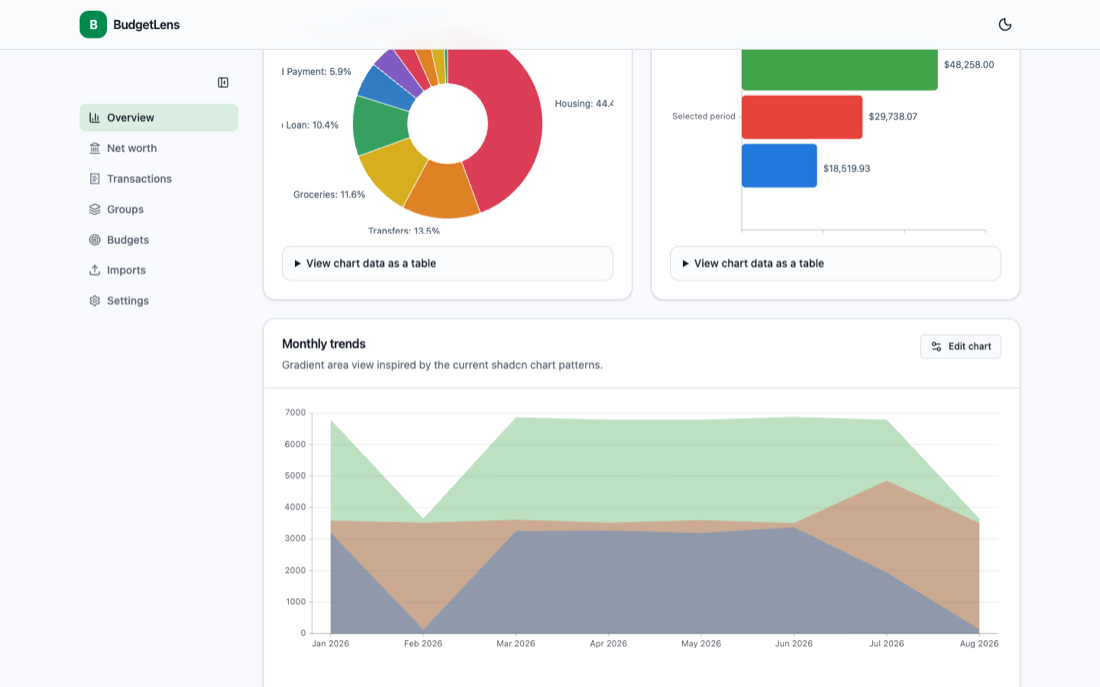
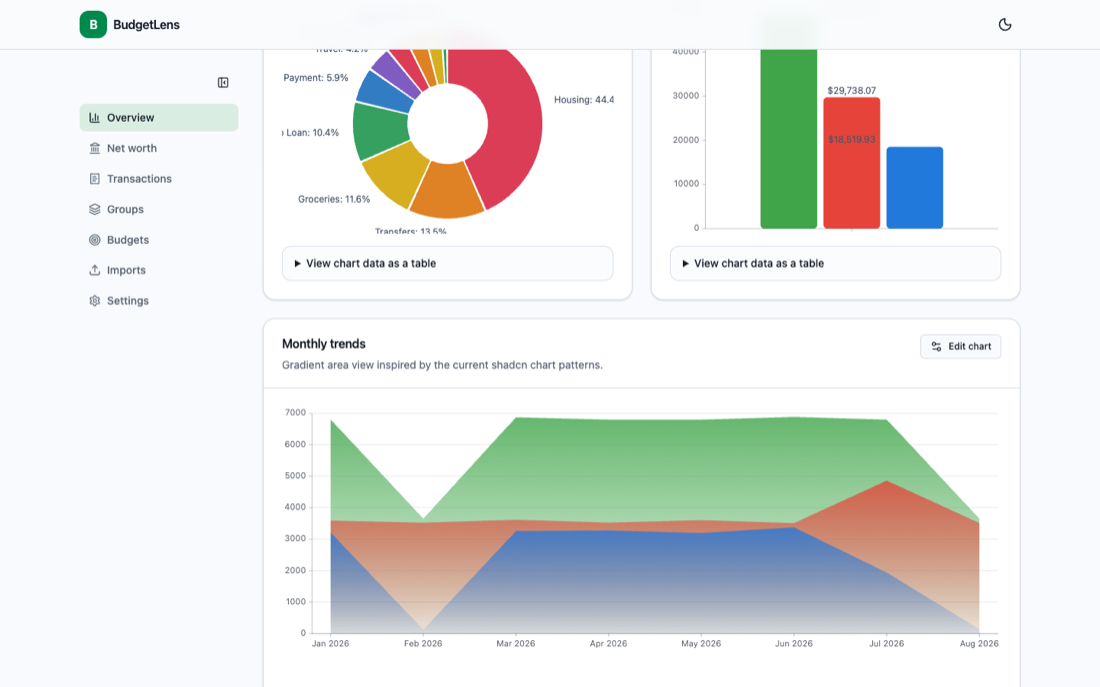
feat(charts): restore gradient area fills and donut slice gaps
Use TanStack's first-class gradient resources (per-series linear
gradients, strong at the curve fading to the baseline) so area charts
match the previous shadcn look instead of flat fills. Donut slices get
a small radius-independent gap like the old paddingAngle.

diff --git a/src/features/charts/render/chart-renderer.tsx b/src/features/charts/render/chart-renderer.tsx
@@ -431,9 +431,28 @@ function AreaChartBody({
   colors: readonly string[]
 }) {
   const prep = useCartesianPrep(rows, metrics, settings, colors)
+  const gradientPrefix = useId().replaceAll(":", "")
   const definition = useMemo(() => {
-    const fillOpacity =
-      settings.areaFill === "gradient" ? 0.35 : settings.areaFill === "solid" ? 0.18 : 0
+    const metricIndex = new Map(metrics.map((metric, index) => [metric.key, index]))
+    const gradient = settings.areaFill === "gradient"
+    // Per-series linear gradients restore the old renderer's AREA_FILLS look:
+    // strong at the curve fading toward the baseline.
+    const gradients = gradient
+      ? metrics.map((metric, index) => {
+          const color = metric.color ?? colorAt(prep.seriesColors, index)
+          return {
+            id: `${gradientPrefix}-area-${index}`,
+            x1: 0,
+            y1: 0,
+            x2: 0,
+            y2: 1,
+            stops: [
+              { offset: 0, color, opacity: 0.8 },
+              { offset: 1, color, opacity: 0.1 },
+            ],
+          }
+        })
+      : []
     return defineChart({
       marks: [
         areaY(prep.longRows, {
@@ -445,7 +464,16 @@ function AreaChartBody({
           z: "metricKey",
           color: "metricKey",
           key: "id",
-          fillOpacity,
+          ...(gradient
+            ? {
+                fill: (row: LongRow) =>
+                  `url(#${gradientPrefix}-area-${metricIndex.get(row.metricKey) ?? 0})`,
+              }
+            : settings.areaFill === "none"
+              ? { fill: "transparent" as const }
+              : {}),
+          fillOpacity: gradient ? 1 : settings.areaFill === "solid" ? 0.18 : 0,
+          strokeWidth: 2,
         }),
         ...(prep.showLabels
           ? [
@@ -467,10 +495,11 @@ function AreaChartBody({
         y: { scale: scaleLinear, nice: true, grid: prep.yGrid },
       },
       color: { domain: prep.metricKeys, range: prep.seriesColors },
+      gradients,
       svgAnimation: prep.animation,
       tooltip,
     })
-  }, [prep, settings.areaFill, settings.labelColor])
+  }, [prep, metrics, gradientPrefix, settings.areaFill, settings.labelColor])
 
   return <Chart definition={definition} ariaLabel="Area chart" className="h-full min-h-0 w-full" />
 }
@@ -583,7 +612,7 @@ function PieChartBody({
         ]
       }),
     )
-    const slices = pie(inputs, { value: "value" })
+    const slices = pie(inputs, { value: "value", gapAngle: 0.015 })
     const totals = Object.fromEntries(
       metrics.map((metric) => [metric.key, totalForMetric(rows, metric.key)]),
     )
